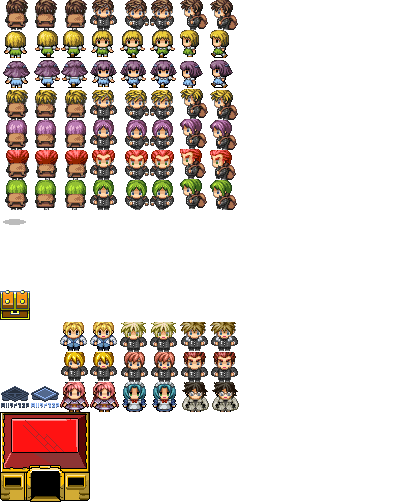
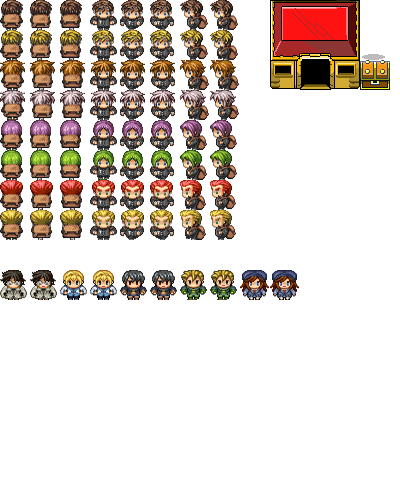
New char images and sprite organization Some name changes Reorganizing sprite mapping

diff --git a/src/game.js b/src/game.js
@@ -1,13 +1,4 @@
-// ---
-// Copyright (c) 2010 Francesco Cottone, http://www.kesiev.com/
-// ---
-
-
-// Game-specific
-
-var audioserver;
-var maingame;
-var noface; // Is a fake "actor" in dialogues. The text is ever in the same place.
+var audioserver, maingame, noface;
 var tilemaps={}, dialogues={};
 
 function go() {
@@ -19,7 +10,6 @@ function go() {
 
 	maingame=gamecycle.createMaingame("gamecycle","gamecycle");
 
-	// Title intro
 	maingame.gameTitleIntroAnimation=function(reset) {
 		if (reset) {
 			gbox.playAudio("default-music");
@@ -46,7 +36,7 @@ function go() {
 		}
 	};
 
-	// Game is ever over, if the player dies the first time. No life check, since is energy-based.
+	// No gameover check
 	maingame.gameIsOver=function() { return true; };
 
 	// Game ending
@@ -64,7 +54,7 @@ function go() {
 		tilemaps.map.mapActions();
 	};
 
-	maingame.gameMenu = function(){return true;};
+	maingame.gameMenu = function(){ return true; };
 
 	maingame.pressStartIntroAnimation = function(reset) {
 		if (reset) {
@@ -75,49 +65,41 @@ function go() {
 		}
 	};
 
-	// Change level
 	maingame.changeLevel=function(level) {
 		// Cleanup the level
 		gbox.trashGroup("playerbullets");
 		gbox.trashGroup("foesbullets");
 		gbox.trashGroup("foes");
 		gbox.trashGroup("walls");
-		gbox.purgeGarbage(); // Since we're starting, we can purge all now
+		gbox.purgeGarbage();
 
-		if (level==null)
-			level={level:"external",x:300,y:270,introdialogue:false}; // First stage
+		if (level==null) level={level:"external",x:300,y:270,introdialogue:false};
 
-		// Dialogues are emptied - will be loaded by bundles. Cache is not needed - each bundle
-		// Contains full dialogues for the floor.
 		dialogues={};
 
-		// Map data is wiped too. Will be loaded by loadBundle. Other data in tilemaps is
-		// kept (i.e. quest status etc)
+		// Map data is wiped too. Will be loaded by loadBundle.
 		delete tilemaps.map;
 
-		// Here the map is loaded. During the load time, the game is still.
 		gbox.addBundle({
 			file:"resources/bundle-"+level.level+".js",
-			onLoad:function(){ // This "onload" operation is triggered after everything is loaded.
-				help.finalizeTilemap(tilemaps.map); // Finalize the map into the bundle
-				gbox.createCanvas("tileslayer",{w:tilemaps.map.w,h:tilemaps.map.h}); // Prepare map's canvas
-				gbox.blitTilemap(gbox.getCanvasContext("tileslayer"),tilemaps.map); // Render map on the canvas
-				toys.topview.spawn(gbox.getObject("player","player"),{x:level.x,y:level.y}); // Displace player
-				tilemaps.map.addObjects(); // Initialize map
-				if (level.introdialogue) // Eventually starts intro dialogue.
-					maingame.startDialogue("intro"); // game introduction, if needed
+			onLoad:function(){
+				help.finalizeTilemap(tilemaps.map);
+				gbox.createCanvas("tileslayer",{w:tilemaps.map.w,h:tilemaps.map.h});
+				gbox.blitTilemap(gbox.getCanvasContext("tileslayer"),tilemaps.map);
+				toys.topview.spawn(gbox.getObject("player","player"),{x:level.x,y:level.y});
+				tilemaps.map.addObjects();
+				if (level.introdialogue) maingame.startDialogue("intro");
 			}
 		});
 	};
 
 	// Game initialization
 	maingame.initializeGame=function() {
-		// Prepare hud
 		maingame.hud.setWidget("cash",{widget:"label",font:"small",value:0,minvalue:0,maxvalue:100,dx:gbox.getScreenW()-60,dy:gbox.getScreenH()-24,prepad:3,padwith:" ",clear:true});
 
 		tilemaps={
 			_defaultblock:100, // The block that is over the borders (a wall)
-			queststatus:{} // Every step the player does, is marked here (opened doors, sections cleared etc)
+			queststatus:{}
 		};
 
 		gbox.addObject({
@@ -132,7 +114,7 @@ function go() {
 		gbox.addObject(new Player());
 	};
 
-	// Changes a tile in the map. It also adds smoke if asked.
+	// Changes a tile in the map.
 	maingame.setTileInMap=function(x,y,tile,smoke) {
 		help.setTileInMap(gbox.getCanvasContext("tileslayer"),tilemaps.map,x,y,tile);
 	};
@@ -155,7 +137,7 @@ function go() {
 						if (dialogues[this.dialogueToRead].endgame) // If the dialogue is marked by "endgame"...
 							maingame.gameIsCompleted(); // The game is completed
 						else
-							gbox.getObject("player","player").doPause(false); // Unpause the player
+							gbox.getObject("player","player").doPause(false);
 							gbox.trashObject(this); // Trash the dialogue itself.
 						}
 					}
@@ -168,39 +150,34 @@ function go() {
 		gbox.addObject({
 			group:"walls",
 			tileset:tileset,
-			zindex:0, // Needed for zindexed objects
+			zindex:0,
 			x:x,
 			y:y,
 			frame:frame,
 
 			initialize:function() {
-				toys.topview.initialize(this); // Any particular initialization. Just the auto z-index
+				toys.topview.initialize(this);
 			},
 
 			blit:function() {
 				if (gbox.objectIsVisible(this)) {
-					// Then the object. Notes that the y is y-z to have the "over the floor" effect.
 					gbox.blitTile(gbox.getBufferContext(),{tileset:this.tileset,tile:this.frame,dx:this.x,dy:this.y+this.z,camera:this.camera,fliph:this.fliph,flipv:this.flipv});
 				}
 			}
 		});
 	};
 
-	// Add a npc (Not Playing Charachter)
 	maingame.addNpc=function(x,y,still,dialogue,questid,talking,silence) {
-		// An easy way to create an NPC.
 		gbox.addObject(new Npc(x,y,still,dialogue,questid,talking,silence));
 	};
 	gbox.go();
 }
 
-// BOOTSTRAP
 gbox.onLoad(function () {
 	var mobile = navigator.userAgent.match(/iPhone/) || navigator.userAgent.match(/Android/);
 
 	help.akihabaraInit({title:"Jogando e Aprendendo",splash:{footnotes:["Game for FSA","Game for FSA"]}});
 
-	// We are not going to use faces for dialogues
 	noface={ noone:{ x:10, y:170,box:{x:0,y:160,w:gbox.getScreenW(),h:60,alpha:0.5} } };
 
 	audioserver="resources/audio/";

diff --git a/src/npc.js b/src/npc.js
@@ -3,7 +3,7 @@ var Npc = function(x,y,still,dialogue,questid,talking,silence){
 		questid:questid,
 		group:"walls",
 		tileset:"npc",
-		zindex:0, // Needed for zindexed objects
+		zindex:0,
 		x:x,
 		y:y,
 		myDialogue:dialogue,
@@ -17,12 +17,12 @@ var Npc = function(x,y,still,dialogue,questid,talking,silence){
 
 		doPlayerAction:function(sw) {
 			if (this.silence) toys.generate.audio.fadeOut(this,"background",null,{channel:"bgmusic"});
-			this.iamTalking=true; // go in talking mode
-			maingame.startDialogue(this.myDialogue); // Starts its dialogue. Is another object because of z-index
+			this.iamTalking=true;
+			maingame.startDialogue(this.myDialogue);
 		},
 
 		initialize:function() {
-			toys.topview.initialize(this); // Any particular initialization. Just the auto z-index
+			toys.topview.initialize(this);
 		},
 
 		first:function(by) {
@@ -39,9 +39,7 @@ var Npc = function(x,y,still,dialogue,questid,talking,silence){
 
 		blit:function() {
 			if (gbox.objectIsVisible(this)) {
-				// Shadowed object. First draws the shadow...
 				gbox.blitTile(gbox.getBufferContext(),{tileset:this.shadow.tileset,tile:this.shadow.tile,dx:this.x,dy:this.y+this.h-gbox.getTiles(this.shadow.tileset).tileh+4,camera:this.camera});
-				// Then the object. Notes that the y is y-z to have the "over the floor" effect.
 				gbox.blitTile(gbox.getBufferContext(),{tileset:this.tileset,tile:this.frame,dx:this.x,dy:this.y+this.z,camera:this.camera,fliph:this.fliph,flipv:this.flipv});
 			 }
 		 }

diff --git a/resources/bundle.js b/resources/bundle.js
@@ -17,7 +17,6 @@
 		{id:"lefthit",image:"sprites",tileh:40,tilew:20,tilerow:4,gapx:0,gapy:30},
 		{id:"uphit",image:"sprites",tileh:20,tilew:40,tilerow:4,gapx:0,gapy:70},
 		{id:"foe1",image:"sprites",tileh:30,tilew:30,tilerow:12,gapx:0,gapy:90},
-		{id:"shadows",image:"sprites",tileh:15,tilew:30,tilerow:12,gapx:0,gapy:210},
 		{id:"bonus",image:"sprites",tileh:20,tilew:20,tilerow:12,gapx:0,gapy:135},
 		{id:"hud",image:"sprites",tileh:20,tilew:20,tilerow:9,gapx:240,gapy:135},
 
@@ -30,14 +29,15 @@
 		{id:"door",image:"sprites",tileh:90,tilew:60,tilerow:1,gapx:0,gapy:200},
 		{id:"doorv",image:"sprites",tileh:90,tilew:30,tilerow:1,gapx:60,gapy:200},
 
-		{id:"chest",image:"sprites",tileh:30,tilew:30,tilerow:1,gapx:0,gapy:290},
 
 		{id:"leftarrow",image:"sprites",tileh:12,tilew:30,tilerow:2,gapx:0,gapy:320},
 		{id:"uparrow",image:"sprites",tileh:30,tilew:12,tilerow:2,gapx:0,gapy:332},
 
 		{id:"items",image:"sprites",tileh:20,tilew:20,tilerow:2,gapx:0,gapy:362},
-		{id:"npc",image:"sprites",tileh:30,tilew:30,tilerow:10,gapx:0,gapy:382},
+		{id:"npc",image:"sprites",tileh:30,tilew:30,tilerow:10,gapx:0,gapy:270},
 
-		{id:"house",image:"sprites",tileh:90,tilew:90,tilerow:1,gapx:0,gapy:412}
+		{id:"shadows",image:"sprites",tileh:15,tilew:30,tilerow:12,gapx:360,gapy:45},
+		{id:"chest",image:"sprites",tileh:30,tilew:30,tilerow:1,gapx:360,gapy:60},
+		{id:"house",image:"sprites",tileh:90,tilew:90,tilerow:1,gapx:270,gapy:0}
 	]
 }

diff --git a/resources/bundle-room1.js b/resources/bundle-room1.js
@@ -82,13 +82,13 @@
 				addObjects:function() {
 					if (!tilemaps.queststatus["teacherstory"]) {
 						gbox.playAudio("map-bgm");
-						maingame.addNpc(350,200,[2],"teacher","teacherstory",[2,3],true);
+						maingame.addNpc(350,200,[0],"teacher","teacherstory",[0,1],true);
 					}
 				},
 				mapActions:function() {
 					var pl=gbox.getObject("player","player");
 					var ontile=help.getTileInMap(pl.x+pl.colx+pl.colhw,pl.y+pl.coly+pl.colhh,tilemaps.map,tilemaps._defaultblock,"map");
-					if (ontile==5) maingame.gotoLevel({level:"begin",x:330,y:90,label:"Vila do aprendizado"});
+					if (ontile==5) maingame.gotoLevel({level:"external",x:330,y:90,label:"Vila do aprendizado"});
 				},
 				tileIsSolid:function(obj,t){ return (t>9) }
 			}

diff --git a/resources/bundle-external.js b/resources/bundle-external.js
@@ -11,7 +11,7 @@
 	setObject:[
 		{
 			object:"dialogues",
-			property:"wife",
+			property:"npc",
 			value:{
 				font:"small", skipkey:"a", esckey:"b", who: noface,
 		  		scenes:[
@@ -51,7 +51,7 @@
 				 addObjects:function() {
 					gbox.playAudio("map-bgm");
 					maingame.addBlock(360,150,"house",0);
-					maingame.addNpc(150,180,[6],"wife",null,[6,7]);
+					maingame.addNpc(150,180,[2],"npc",null,[2,3]);
 				 },
 				 mapActions:function() {
 					var pl=gbox.getObject("player","player");
